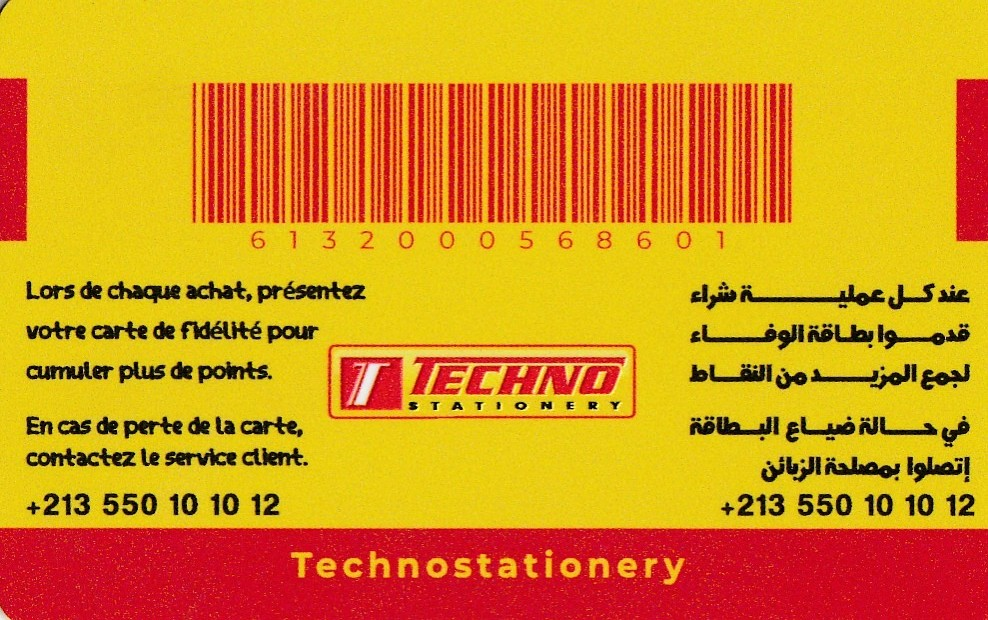
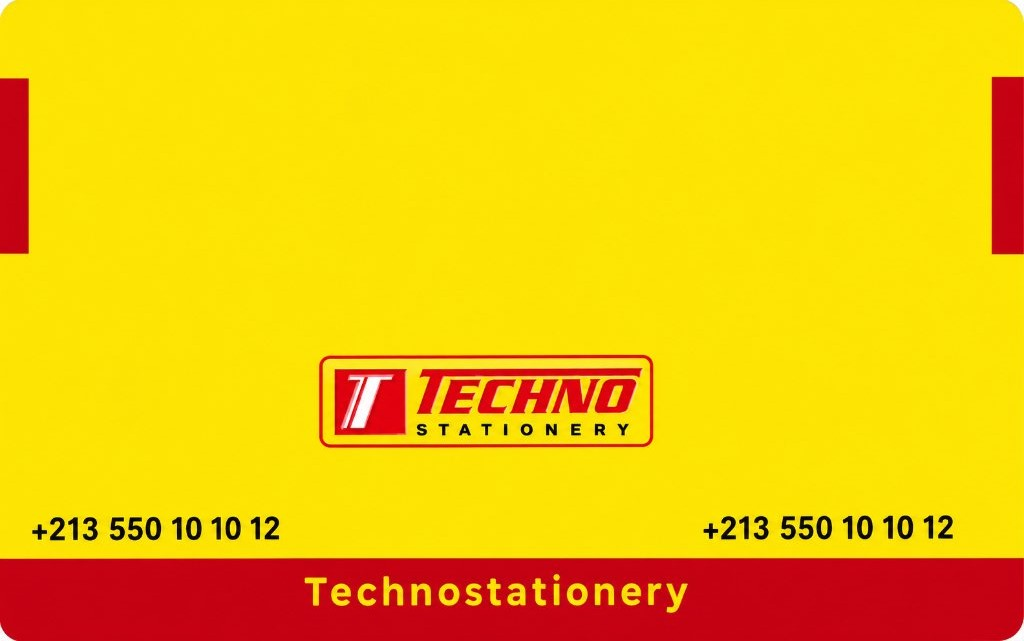
feat(loyalty): update standard card images and add dynamic red barcode and number in empty yellow space

diff --git a/src/components/VirtualLoyaltyCard.tsx b/src/components/VirtualLoyaltyCard.tsx
@@ -429,21 +429,52 @@ export function VirtualLoyaltyCard({
               }}
             />
             {activeDesign === 'standard' ? (
-              /* Standard Back Face (Barcode on top, info text below) */
-              <div className="relative w-full h-full flex flex-col justify-between p-3">
-                {/* Personal Scannable Card Number Bar placed cleanly right under barcode */}
-                <div className="w-full text-center pt-2">
-                  <span
-                    dir="ltr"
-                    className="inline-block px-3 py-0.5 rounded bg-white/90 text-[#E30613] font-mono text-xs sm:text-sm font-black tracking-widest shadow-xs select-all"
-                  >
-                    * {displayedCardNumber} *
-                  </span>
+              /* Standard Back Face: Dynamic Barcode and Number in Red placed in the empty yellow space */
+              <div className="relative w-full h-full overflow-hidden select-none">
+                {/* Barcode and Card Number Container positioned in the top yellow area */}
+                <div
+                  className="absolute flex flex-col items-center justify-between"
+                  style={{
+                    left: '10%',
+                    right: '10%',
+                    top: '7%',
+                    height: '43%',
+                  }}
+                >
+                  {isPartiallyMasked ? (
+                    <div className="w-full h-full flex flex-col items-center justify-center text-center p-1">
+                      <Lock className="w-4 h-4 text-[#E30613] mb-0.5" />
+                      <span className="text-[8px] sm:text-[9.5px] font-mono font-bold text-[#E30613]">
+                        الباركود محمي برمز PIN
+                      </span>
+                    </div>
+                  ) : (
+                    <>
+                      {/* High-Resolution Dynamic Barcode in Techno Red */}
+                      <div className="w-full flex-1 flex items-center justify-between px-1 overflow-hidden">
+                        {barcodeBars.map((width, idx) => (
+                          <div
+                            key={idx}
+                            className="h-full bg-[#E30613]"
+                            style={{ width: `${Math.max(1, width * 1.45)}px` }}
+                          />
+                        ))}
+                      </div>
+
+                      {/* Scannable Card Number in Bold Red */}
+                      <p
+                        dir="ltr"
+                        className="text-center font-mono text-[9px] sm:text-[11px] font-black tracking-widest text-[#E30613] mt-1 select-all"
+                      >
+                        * {card.cardNumber} *
+                      </p>
+                    </>
+                  )}
                 </div>
 
-                {/* Bottom notification */}
-                <div className="w-full text-center pb-1">
-                  <span className="text-[7px] sm:text-[8px] font-mono font-bold text-white bg-black/60 px-2 py-0.5 rounded">
+                {/* Bottom Customer Service Text in bottom red strip */}
+                <div className="absolute bottom-1 w-full text-center">
+                  <span className="text-[7px] sm:text-[8px] font-mono font-bold text-white/90 tracking-wide">
                     فرع الأغواط 03 · هاتف خدمة الزبائن: 0550101012
                   </span>
                 </div>

diff --git a/src/utils/loyaltyLogic.ts b/src/utils/loyaltyLogic.ts
@@ -769,12 +769,39 @@ export async function exportCardToPng(
         ctx.fillText('VAL: ' + card.validThru, 50, 535);
         ctx.restore();
       } else {
-        // Back of standard card: card number under the top barcode
+        // Back of standard card: dynamic red barcode and red card number in the top yellow space
+        const barcodeY = 48;
+        const barcodeH = 175;
+        const barcodeXStart = canvas.width * 0.10;
+        const barcodeWidthTotal = canvas.width * 0.80;
+
         ctx.save();
-        ctx.font = 'bold 22px monospace';
         ctx.fillStyle = '#E30613';
-        ctx.textAlign = 'center';
-        ctx.fillText('* ' + card.cardNumber + ' *', canvas.width / 2, 215);
+
+        if (card.status === 'approved_pending_pin') {
+          ctx.font = 'bold 24px -apple-system, sans-serif';
+          ctx.textAlign = 'center';
+          ctx.fillText('🔒 الباركود محمي برمز PIN', canvas.width / 2, barcodeY + 90);
+        } else {
+          // Draw alternating barcode bars in vibrant Techno Red
+          const bars = generateBarcodeBars(card.cardNumber);
+          const totalUnits = bars.reduce((sum, b) => sum + b, 0);
+          const unitWidth = barcodeWidthTotal / totalUnits;
+          let currentX = barcodeXStart;
+
+          bars.forEach((barWidth, idx) => {
+            const w = barWidth * unitWidth;
+            if (idx % 2 === 0) {
+              ctx.fillRect(currentX, barcodeY, Math.max(1.5, w), barcodeH);
+            }
+            currentX += w;
+          });
+
+          // Draw card number below barcode in bold red
+          ctx.font = 'bold 25px monospace';
+          ctx.textAlign = 'center';
+          ctx.fillText('* ' + card.cardNumber + ' *', canvas.width / 2, barcodeY + barcodeH + 34);
+        }
         ctx.restore();
       }
     } else {
